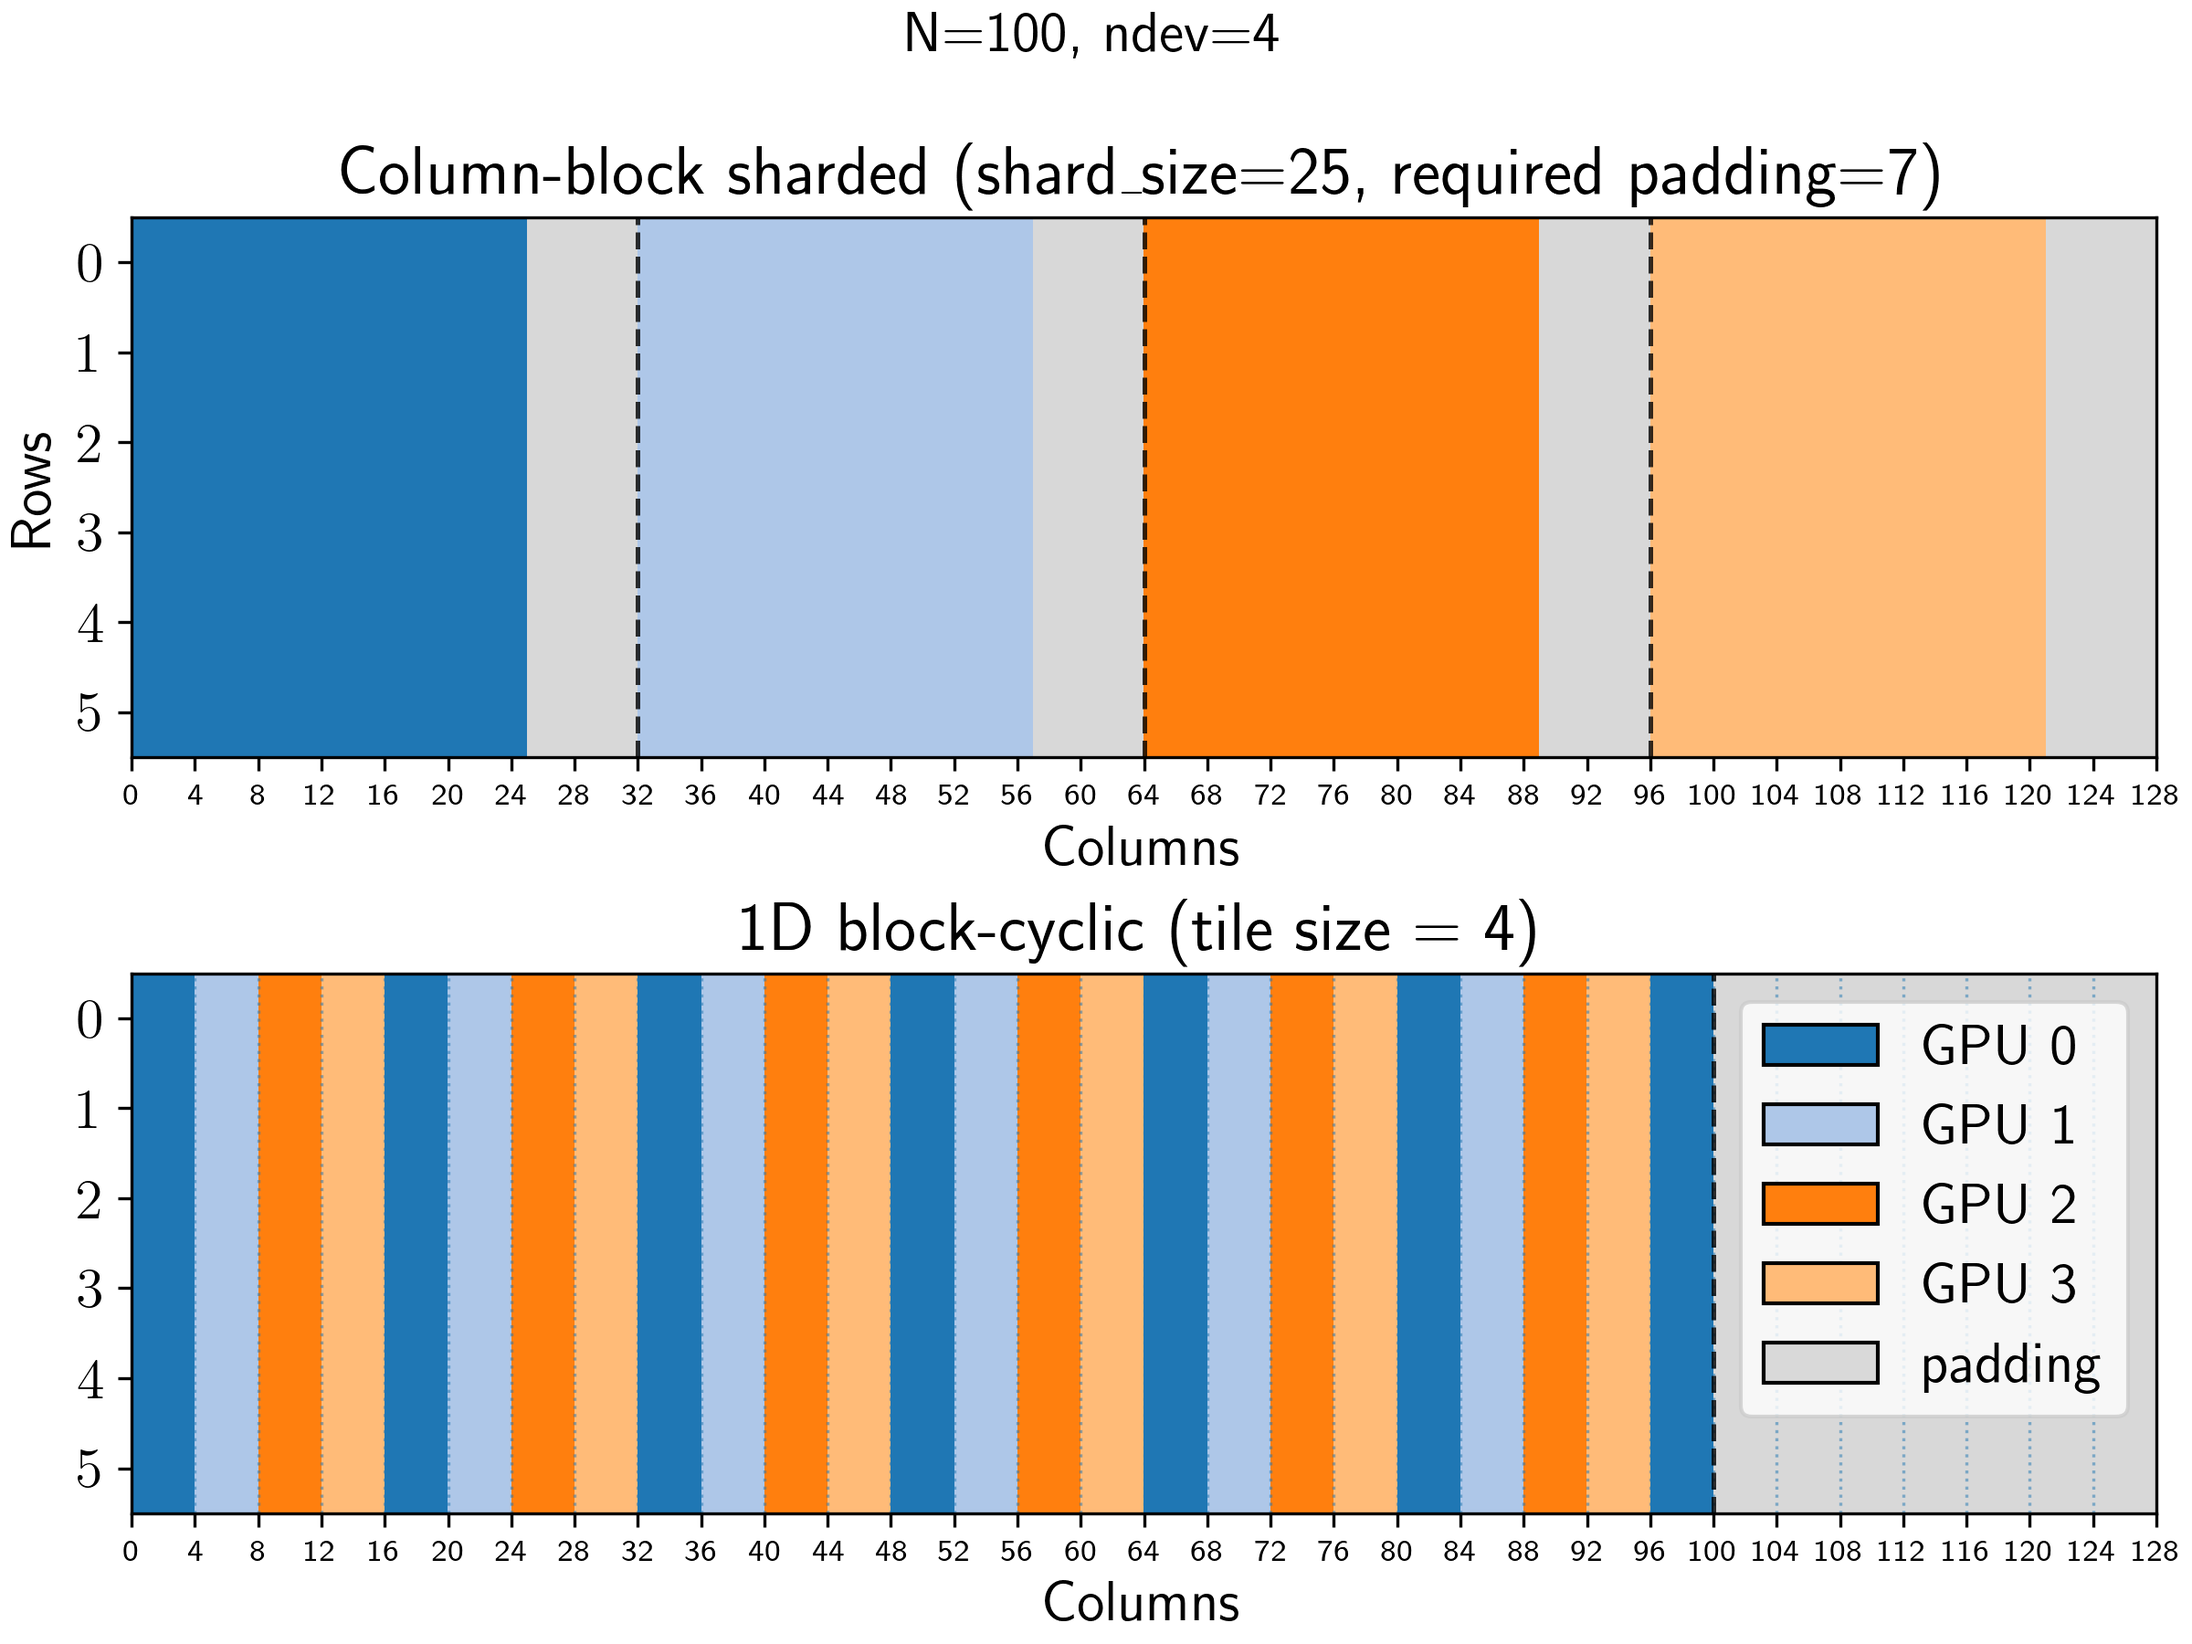
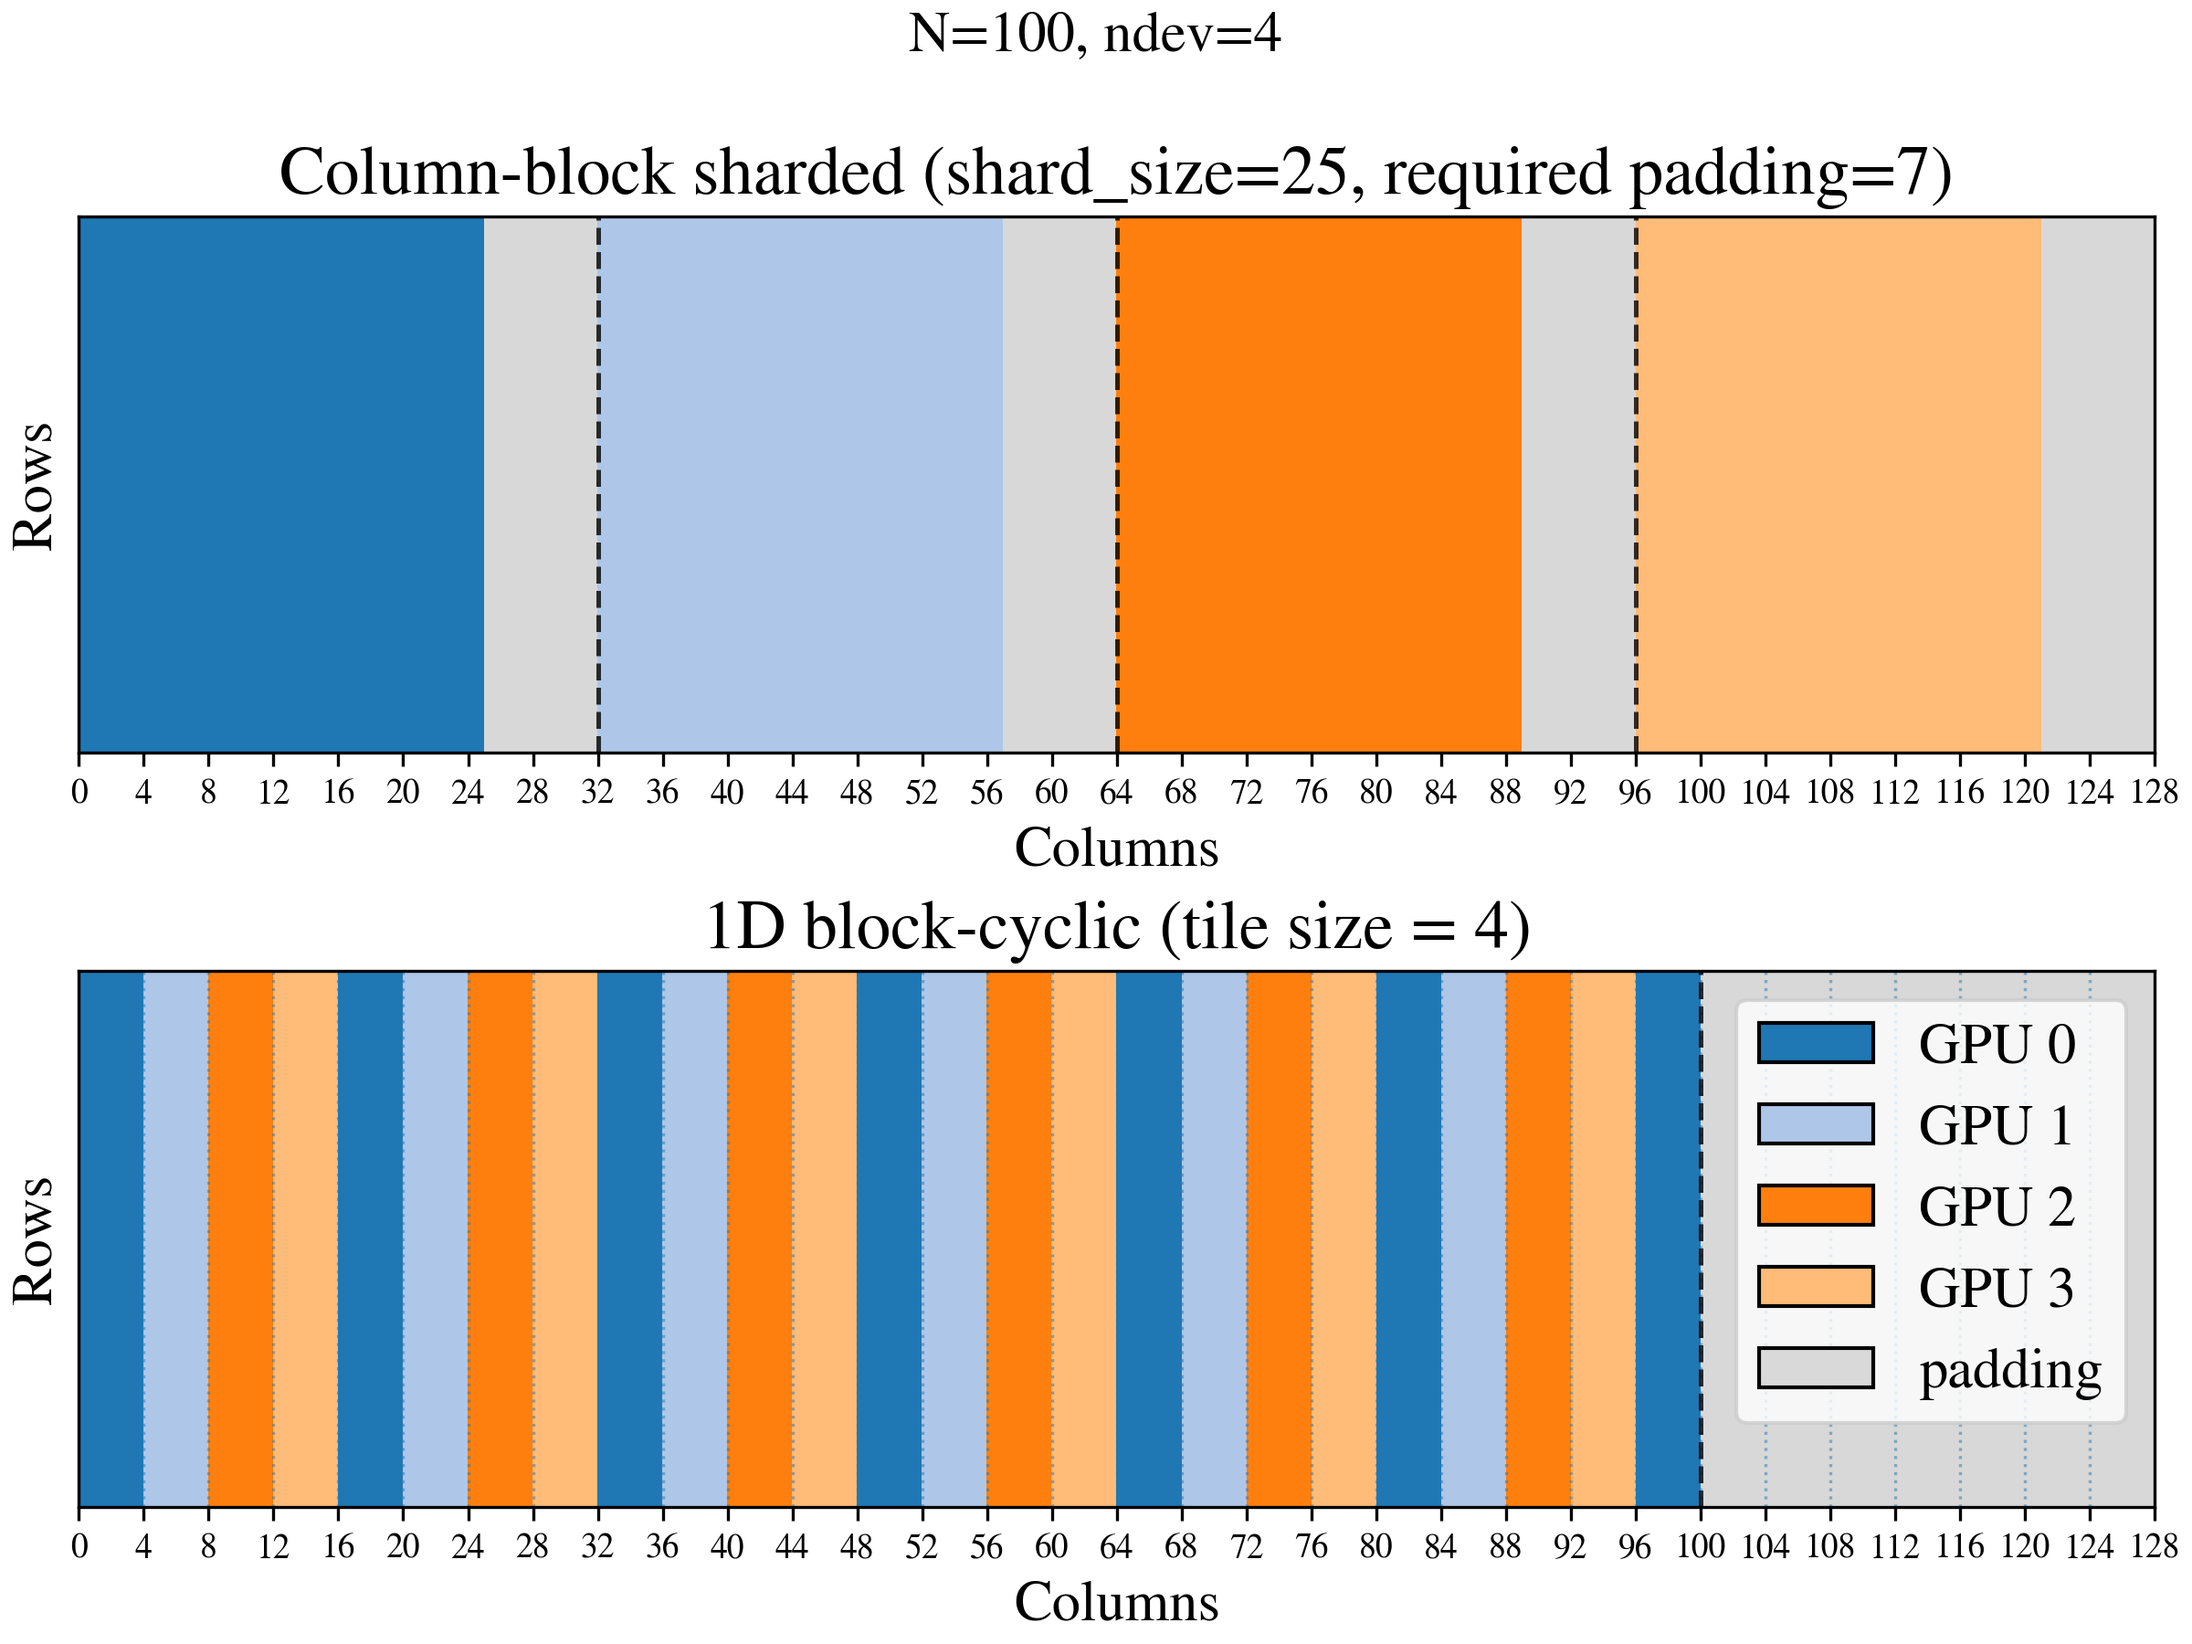
update plot code

Changed region(s): [[0.0, 0.0933, 1.0, 0.9956], [0.4062, 0.0, 0.5938, 0.0311], [0.9062, 0.1244, 0.9375, 0.1556]]

diff --git a/src/jaxmg/cyclic_1d.py b/src/jaxmg/cyclic_1d.py
@@ -400,13 +400,24 @@ def plot_block_to_cyclic(N: int, T_A: int, ndev: int, N_rows: int = 8):
     # ---- Shared x-axis ticks every T_A ----
     max_cols = max(total_cols, total_cols_padded)
     xticks = np.arange(0, max_cols + 1, T_A)
+    nticks = max_cols + 1
+    renderer = fig.canvas.get_renderer()
+    bbox = axs[0].get_window_extent(renderer=renderer)
+    x_axis_len = bbox.width
+    nticks = int(np.ceil(max_cols/T_A))
+    # rough available space per tick
+    space_per_tick = x_axis_len / nticks
+    # heuristic: scale fontsize to ~70% of available space
+    size = max(5, min(int(space_per_tick / 2), 12))
     for ax in axs:
         ax.set_xticks(xticks -0.5)
-        ax.set_xticklabels(xticks, fontsize=8)
+        ax.set_xticklabels(xticks, fontsize=size)
+        ax.set_yticks([])
 
     im1 = axs[1].imshow(after, aspect='auto', interpolation='nearest', cmap=cmap, norm=norm)
     axs[1].set_title(f"1D block-cyclic (tile size = {T_A})")
-    axs[1].set_xlabel("Columns")
+    axs[1].set_xlabel(r"Columns")
+    axs[1].set_ylabel(r"Rows")
 
     # Grid lines for tile boundaries
     for t in range(1, n_tiles):

diff --git a/plot_matrices.py b/plot_matrices.py
@@ -1,22 +1,19 @@
 import matplotlib as mpl
 import matplotlib.pyplot as plt
-from jaxmg.cyclic_1d import plot_block_to_cyclic
+from src.jaxmg.cyclic_1d import plot_block_to_cyclic
 
 if __name__ == "__main__":
-    with mpl.rc_context({
-    "text.usetex": True,
-    "font.size": 15,
-    "font.family": "Helvetica"
-}):
-        N = 100 # - 2**12
+    with mpl.rc_context(
+        {"font.size": 15, "font.family": "STIXGeneral", 'mathtext.fontset': 'stix'}
+    ):
+        N = 100  # - 2**12
         NRHS = 1
         T_A = 4
         fig, axs = plot_block_to_cyclic(N=N, T_A=T_A, ndev=4, N_rows=6)
-        fig.savefig("resources/mat.png",dpi=300)
+        fig.savefig("resources/mat.png", dpi=300)
 
-        N = 12 # - 2**12
+        N = 12  # - 2**12
         NRHS = 1
         T_A = 2
         fig, axs = plot_block_to_cyclic(N=N, T_A=T_A, ndev=2, N_rows=6)
-        fig.savefig("resources/mat_example.png",dpi=300)
-
+        fig.savefig("resources/mat_example.png", dpi=300)
